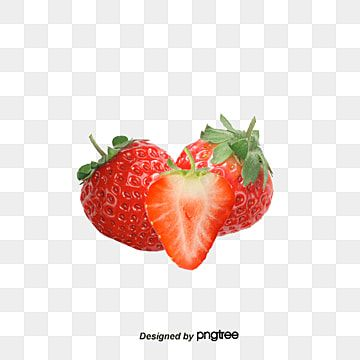
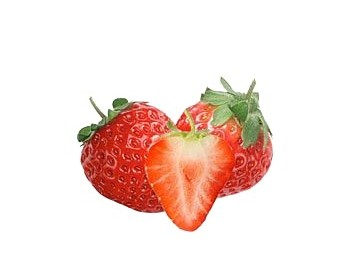
fiks

Changed region(s): [[0.2029, 0.2581, 0.8116, 0.8315], [0.3768, 0.9176, 0.6667, 0.9462]]

diff --git a/berries/i2.html b/berries/i2.html
@@ -46,7 +46,7 @@
 	<br>
 	<h1>цена: 60 dreamcoin</h1>
 	<br>
-	<img style="width: 200px;" src="berry2.jpg"/>
+	<img style="width: 200px;" src="berry2.png"/>
 	<br><br>	
 	<h3 class="bubble2">
 		по поводу онлайн заказа писать в тг: @bubble_blisss
